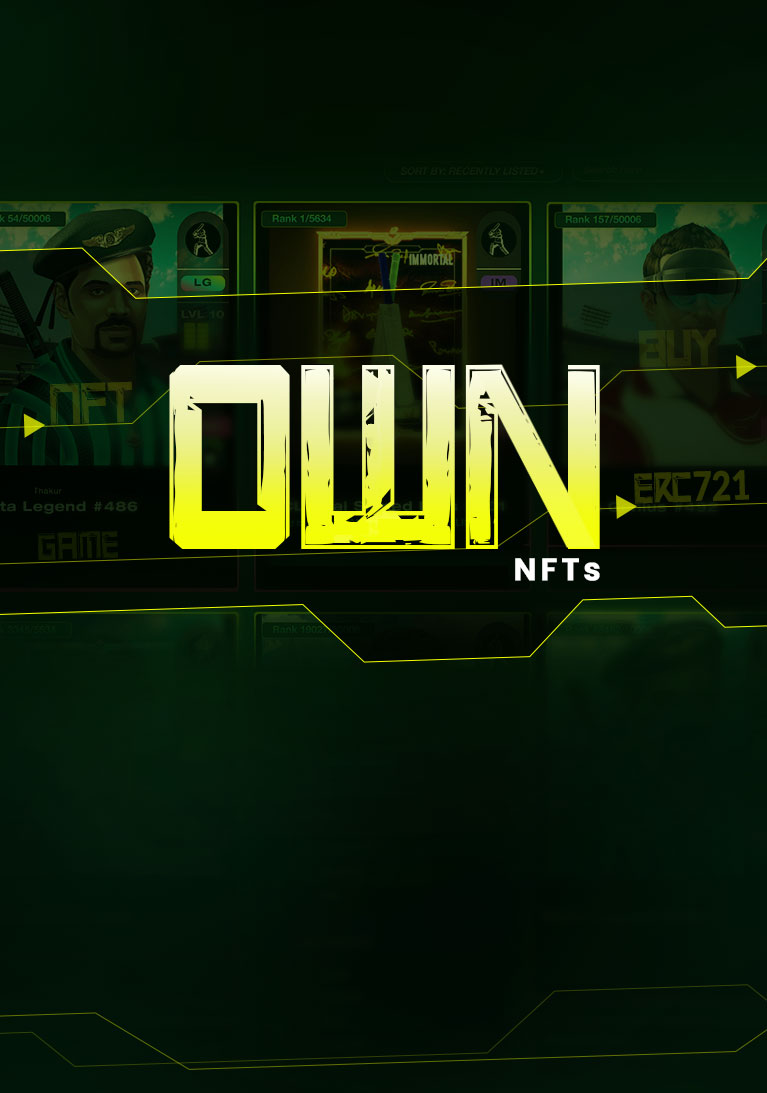
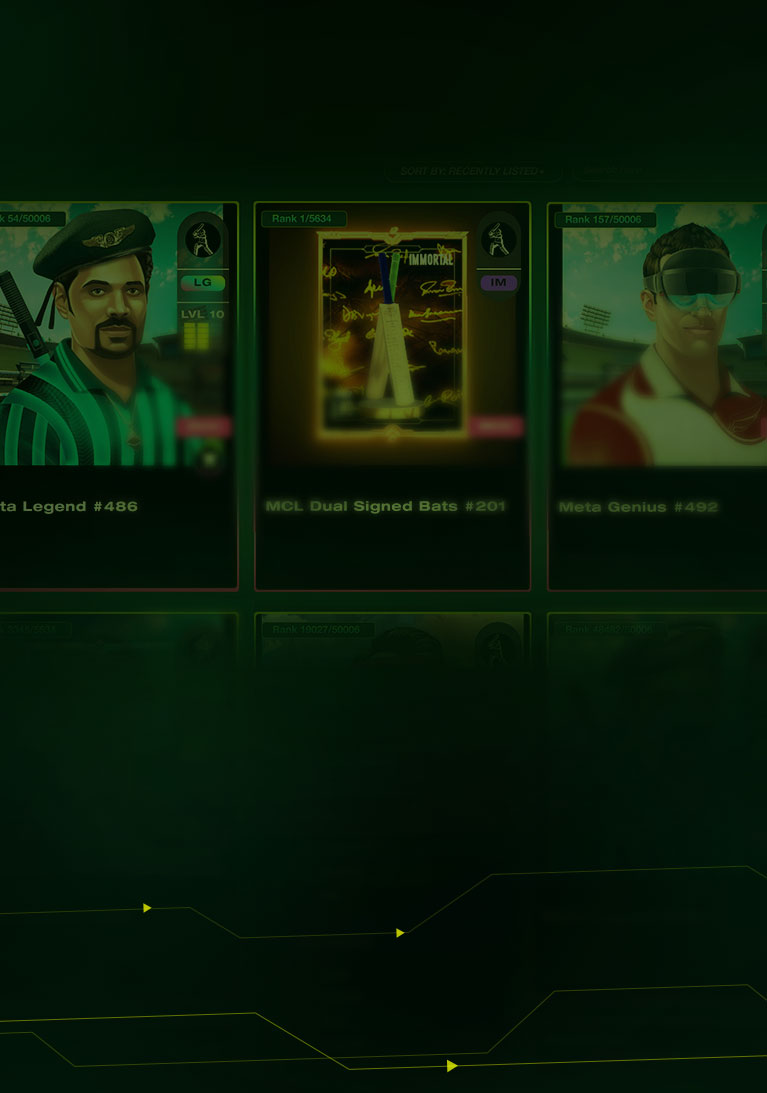
UI changes updated hero section

diff --git a/src/components/hero-banner/index.js b/src/components/hero-banner/index.js
@@ -5,12 +5,22 @@ import NFTCounter from "../nft-counter/index";
 import images from "../../utils/images.json";
 import OwlCarousel from "react-owl-carousel";
 
-import ownMobile from "../../images/jump-trade/hero-banner/01_Own-Banner_low_Mobile.jpeg";
-import playMobile from "../../images/jump-trade/hero-banner/02_Play-Banner_low_Mobile.jpeg";
-import earnMobile from "../../images/jump-trade/hero-banner/03_Earn-Banner_low_Mobile.jpeg";
-import ownWeb from "../../images/jump-trade/hero-banner/01_Own-Banner_low.jpeg";
 import playWeb from "../../images/jump-trade/hero-banner/02_Play-Banner_low.jpeg";
+import playMobile from "../../images/jump-trade/hero-banner/02_Play-Banner_low_Mobile.jpeg";
+import playWebText from "../../images/jump-trade/hero-banner/02_Play_Text-only_WEB.png";
+import playMobileText from "../../images/jump-trade/hero-banner/02_Play_Text-only_Mobile.png";
+
 import earnWeb from "../../images/jump-trade/hero-banner/03_Earn-Banner_low.jpeg";
+import earnMobile from "../../images/jump-trade/hero-banner/03_Earn-Banner_low_Mobile.jpeg";
+import earnWebText from "../../images/jump-trade/hero-banner/03_Earn_Text-only_WEB.png";
+import earnMobileText from "../../images/jump-trade/hero-banner/03_Earn_Text-only_Mobile.png";
+
+import ownWeb from "../../images/jump-trade/hero-banner/01_Own-Banner_low.jpeg";
+import ownMobile from "../../images/jump-trade/hero-banner/01_Own-Banner_low_Mobile.jpeg";
+import ownWebText from "../../images/jump-trade/hero-banner/01_Own_Text-only_WEB.png";
+import ownMobileText from "../../images/jump-trade/hero-banner/01_Own_Text-only.png";
+
+import comingSoon from "../../images/jump-trade/hero-banner/Coming-Soon_Common_Web.png";
 
 import "./style.scss";
 
@@ -86,6 +96,13 @@ const HeroBanner = () => {
             }}
           >
             <div className="hero-content-block">
+              <img
+                src={innerWidth > 767 ? ownWebText : ownMobileText}
+                alt="Best NFT Marketplace"
+                className="hero-content-img"
+                loading="lazy"
+              />
+
               <div className="hero-content-box">
                 <div className="hero-btn-block">
                   {live && (
@@ -118,8 +135,16 @@ const HeroBanner = () => {
             }}
           >
             <div className="hero-content-block">
+              <img
+                src={innerWidth > 767 ? playWebText : playMobileText}
+                alt="Best NFT Marketplace"
+                className="hero-content-img"
+                loading="lazy"
+              />
               <div className="hero-content-box">
-                <div className="hero-btn-block"></div>
+                <div className="hero-btn-block">
+                  <img src={comingSoon} alt="comming soon" />
+                </div>
 
                 <h4>PLAY - Immerse Yourself In An Addictive Cricket Game</h4>
                 <p className="hero-desc">
@@ -141,8 +166,16 @@ const HeroBanner = () => {
             }}
           >
             <div className="hero-content-block">
+              <img
+                src={innerWidth > 767 ? earnWebText : earnMobileText}
+                alt="Best NFT Marketplace"
+                className="hero-content-img"
+                loading="lazy"
+              />
               <div className="hero-content-box">
-                <div className="hero-btn-block"></div>
+                <div className="hero-btn-block">
+                  <img src={comingSoon} alt="comming soon" />
+                </div>
 
                 <h4>
                   EARN - Get Rewarded For Your Game-Time, Skill &amp; Efforts{" "}

diff --git a/src/components/hero-banner/style.scss b/src/components/hero-banner/style.scss
@@ -56,15 +56,13 @@
         min-height: calc(100vh - 30rem);
       }
       .hero-content-img {
-        max-width: 60rem;
+        // max-width: 60rem;
         width: 100%;
         margin-bottom: 2rem;
 
         @media screen and (max-width: 767px) {
-          width: 80%;
+          width: 100%;
           margin: 2rem auto;
-
-          margin-bottom: 8rem;
         }
       }
       h3 {
@@ -130,6 +128,10 @@
           margin-bottom: 1rem;
           // position: absolute;
           // top: 13rem;
+          img {
+            max-width: 20rem;
+            width: 100%;
+          }
           button {
             margin-bottom: 0;
             margin: 0 0.5rem !important;
